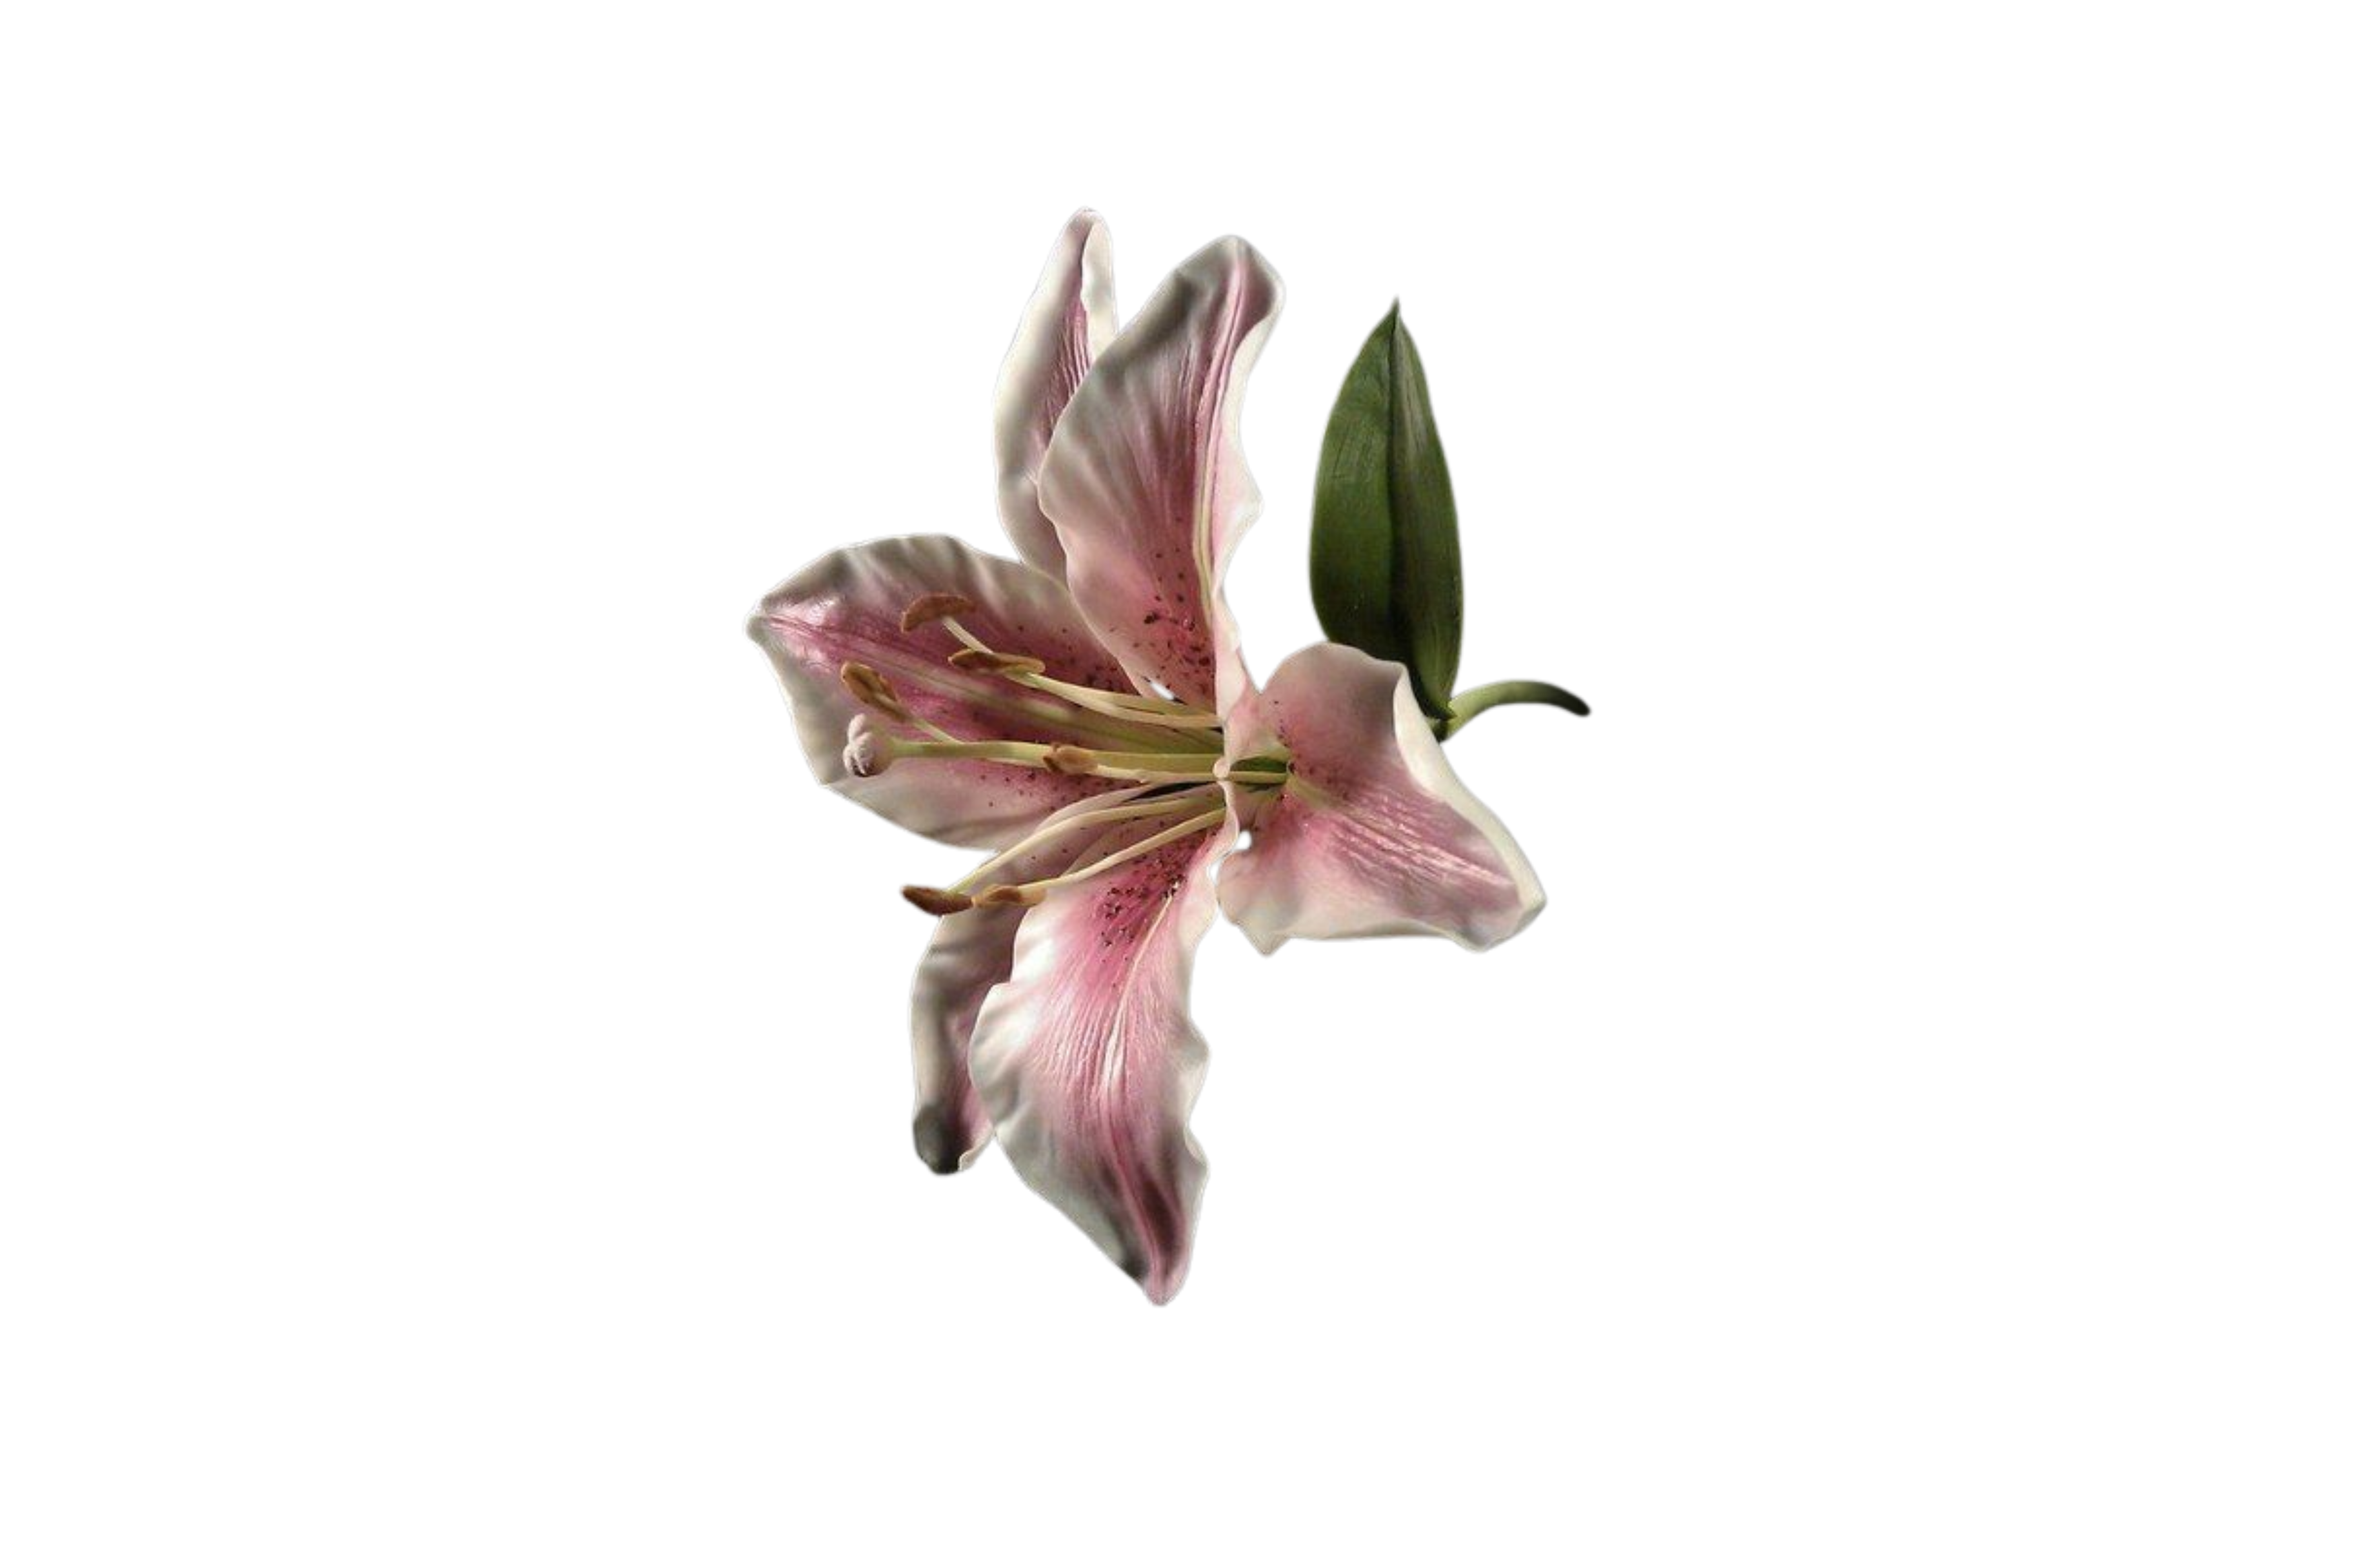
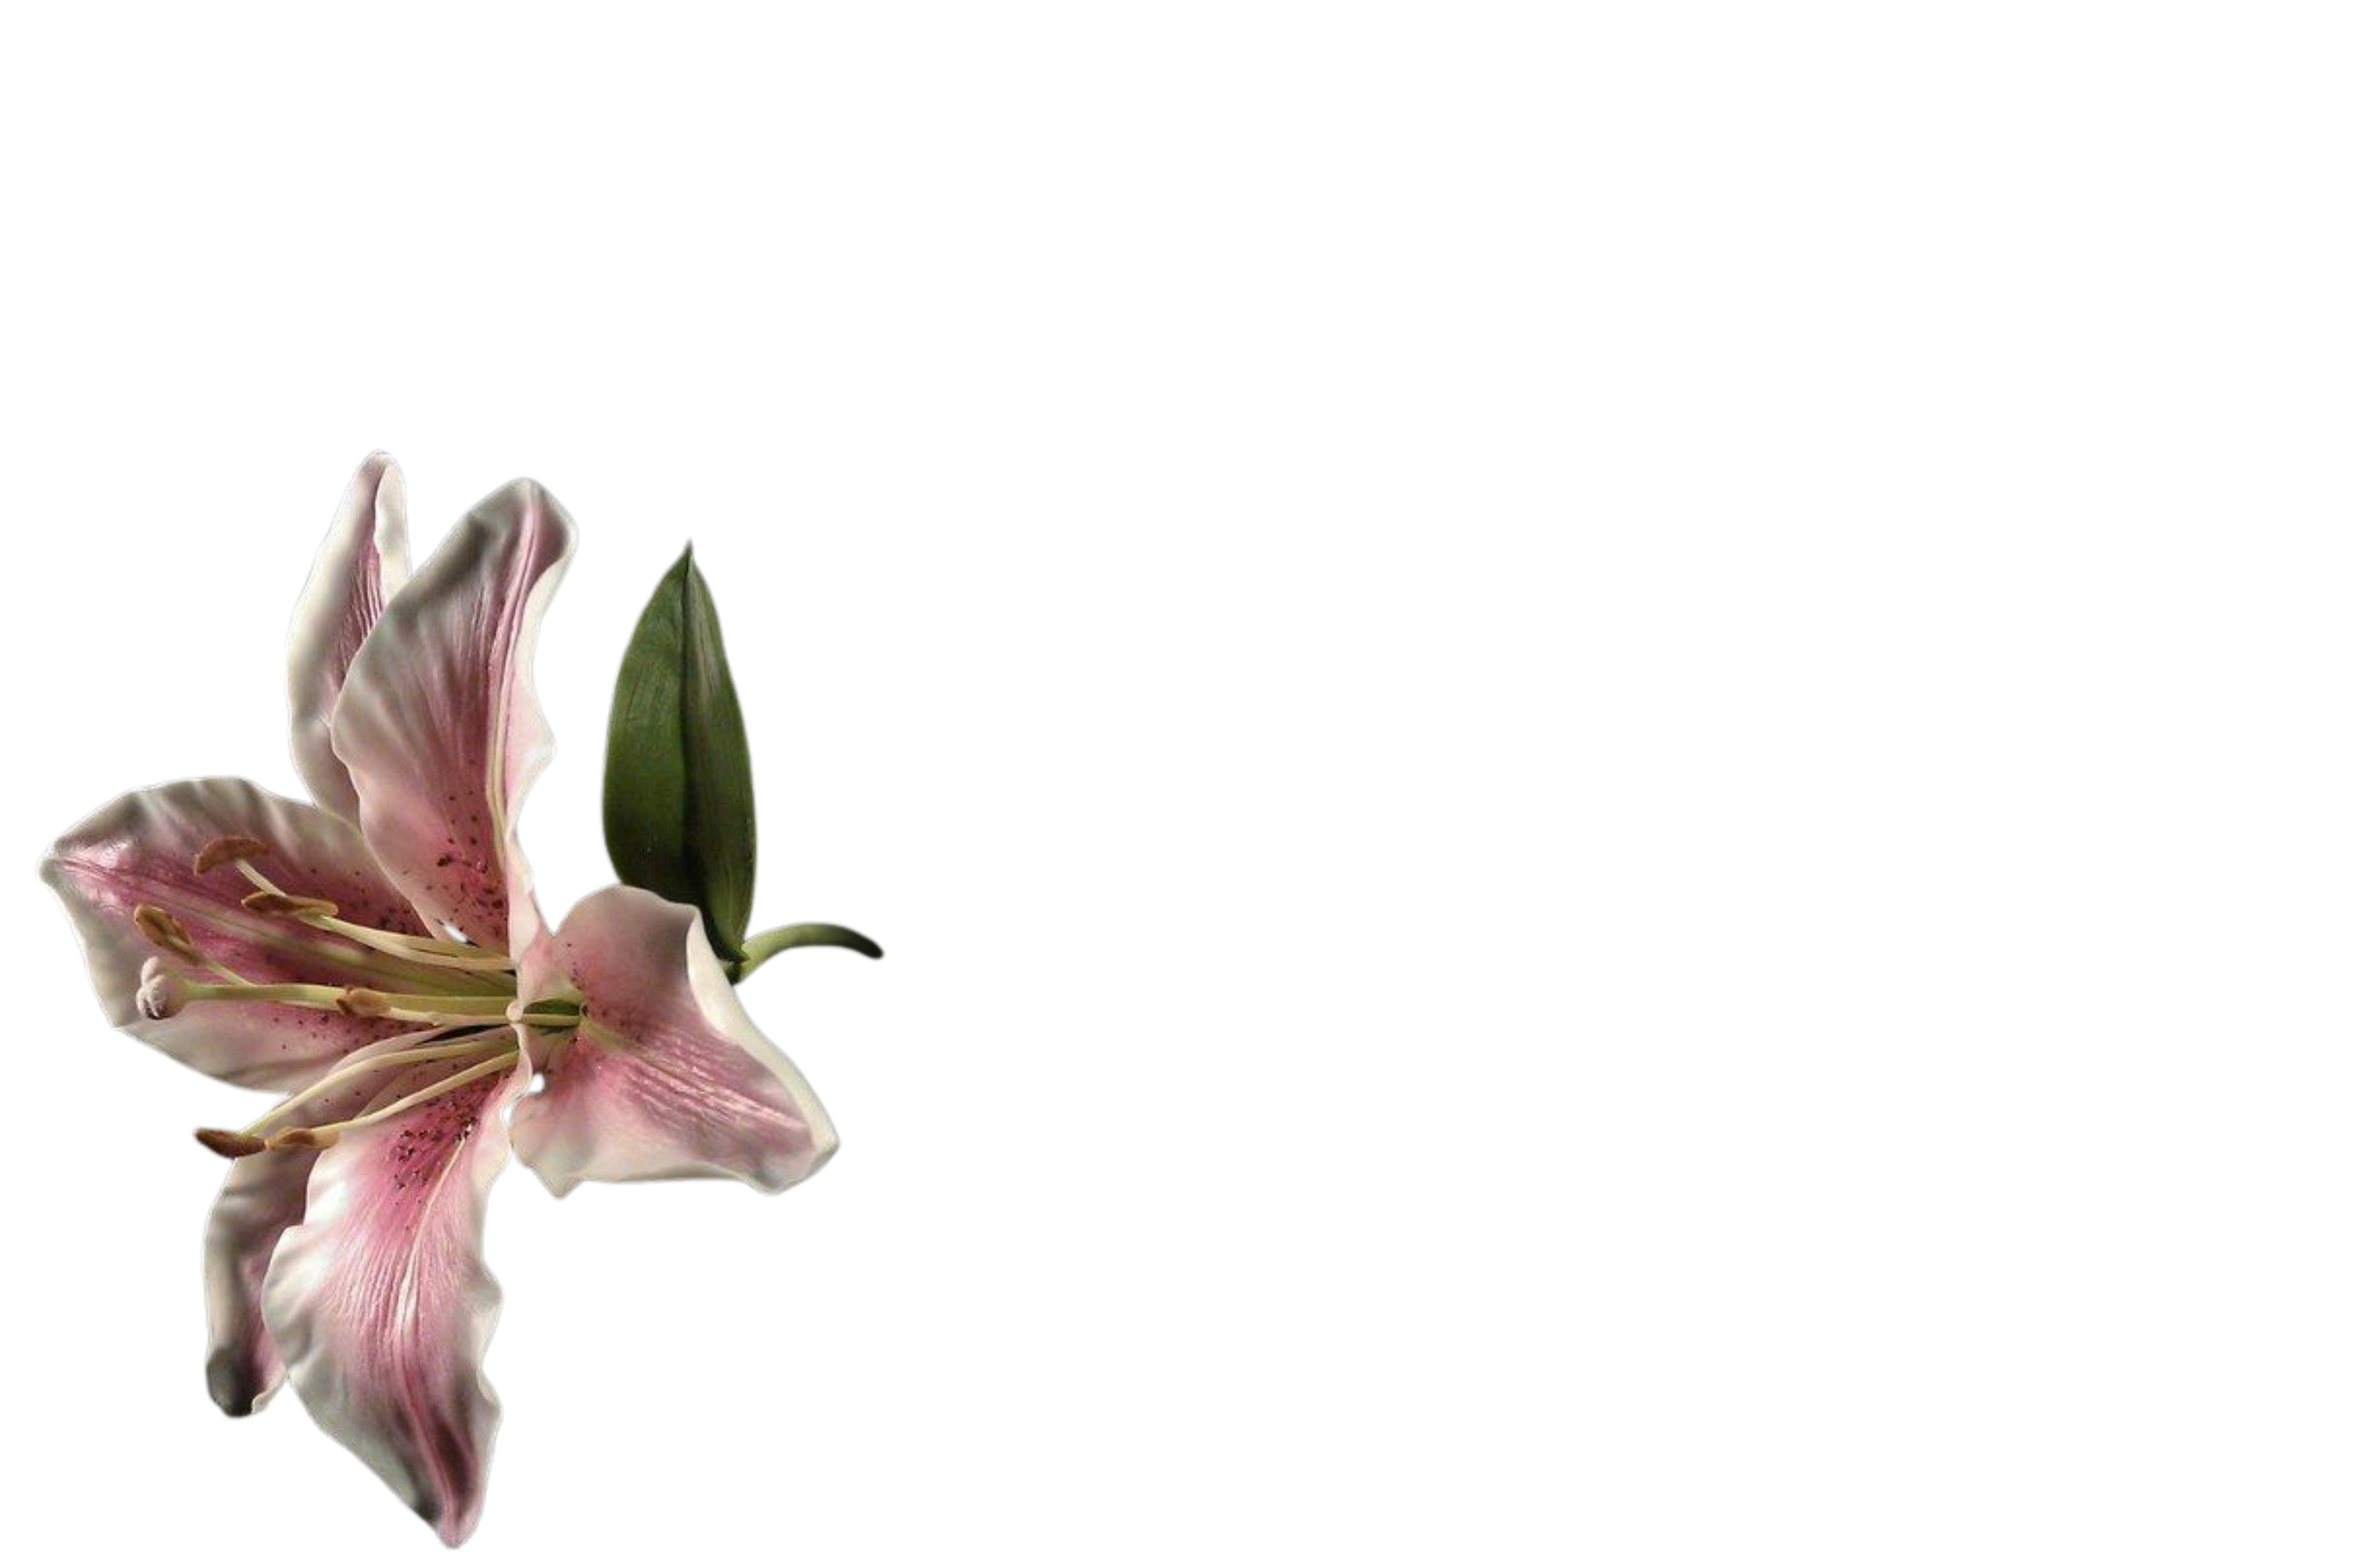
update

Changed region(s): [[0.0, 0.125, 0.6857, 1.0]]

diff --git a/entry-2/index.html b/entry-2/index.html
@@ -9,7 +9,7 @@
     <h1>Chapter 2: When The World Became Two <br></h1>
    
     <img src="images/body.jpg" width="450"> 
-    <img src="images/flower transparent.png" width="1000">
+    <img src="images/flower.jpg" width="350">
     <p> <br> </p>    
     <img src="images/hands reaching.png" width="800"> 
     <p> <br> </p>   
@@ -19,7 +19,9 @@
     <img src="images/left to remember.png" width="1000">
     <p><br> <br> I remember how my world fell apart in a flash the day I witnessed him die in a car accident, <br> his radiant, innocent, and smiling eyes, as usual, <br> gazing in my direction, about to run into my arms.</p>
     <p style="text-align:right;"></pstyle>
-    <br> <i> I remember how the days that followed weighed upon my soul. </i> </p>
+    <br> <br> <i> I remember how the days that followed weighed upon my soul. </i> </p>
+    <p> <br> <br> I carried regret like a stone in my pocket. <br> I rewound the moments again and again, wishing I could rewrite them. Wishing I had said something different. Wishing I had held him tighter. <br> Regret is like a shadow that grows longer the more I look behind me. It is a song that plays the same notes, even when I beg for silence. <br> <br> I am a survivor of those voices. Saying that feels strange and true at once. <br> Survival did not arrive like a victory. It arrived with fear and with <br> tiny, <br> stubborn, <br> fragile hope. <br> <br> I do not glorify death. <br> I do not romanticize the way it can make a life feel meaningful by absence. <br> But I can’t deny its strange power. I can't pretend it is only terrible. <br> So I keep the memories. <br> The bad ones and the good ones. <br> They are pages I reread again and again. <br> They are the proof that I loved, <br> and that I was loved. <br> Love and regret can live in the same small room. <br> <i> Will it bring us to another life, another version, another meeting? </i></p> 
+    <p style="text-align:right;"></pstyle> <br> <br> I don't know. <br> I only know I keep the thread, <br> and I keep hoping.</p>
     <video src="videos/movie.MOV" width="1000" controls style="display:block; margin:auto;"></video>
     <a href="../index.html">Back to home</a>
 </body>
